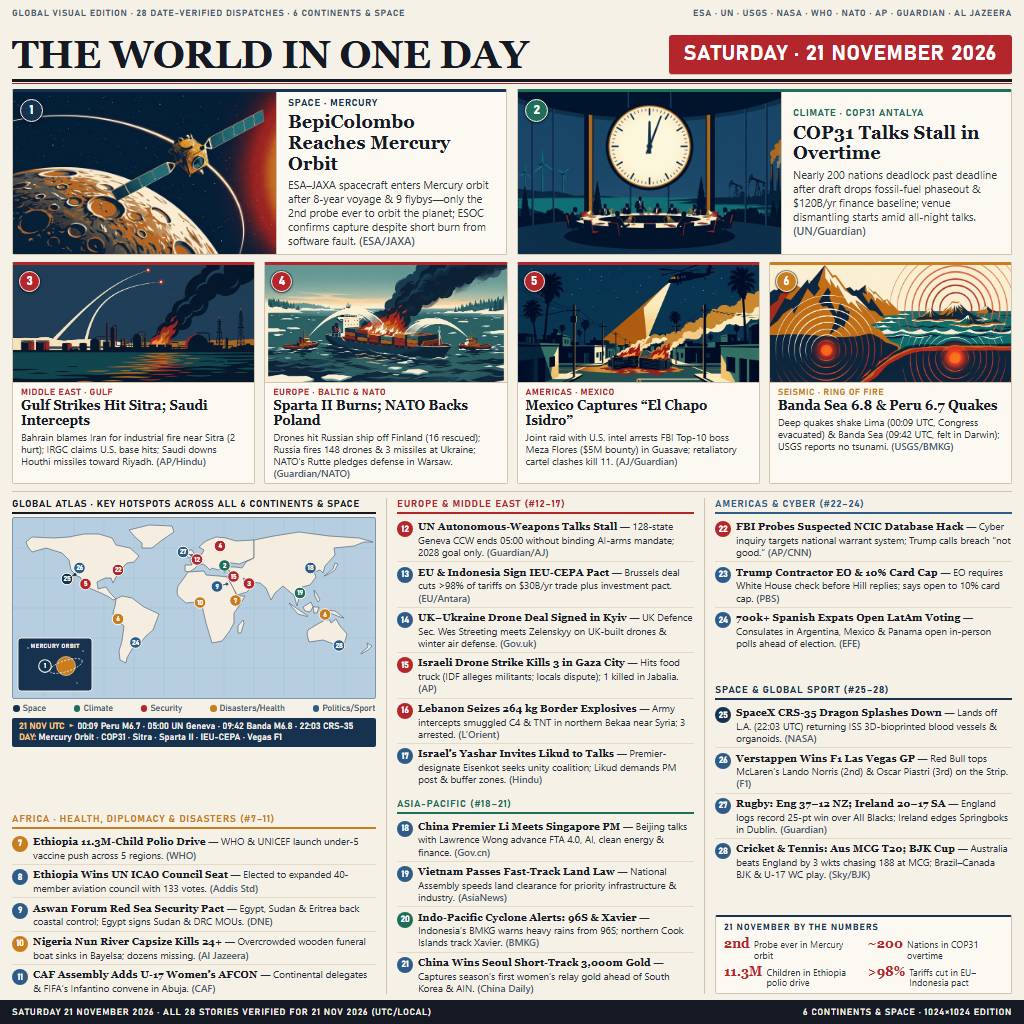
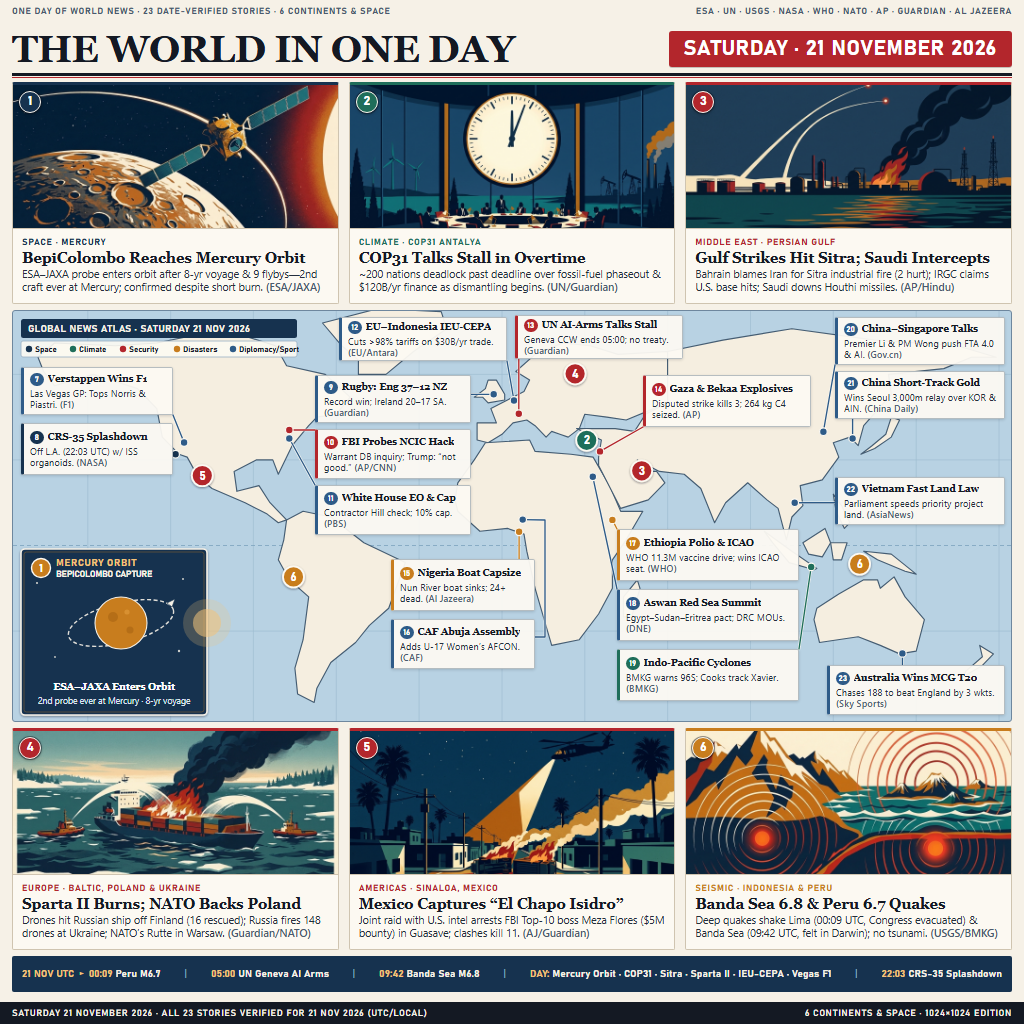
v5: unified illustrated global atlas front page with 23 verified 21 Nov 2026 stories

diff --git a/README.md b/README.md
@@ -4,7 +4,7 @@
 [![rank](https://make.fun/badge/news-image-20261121/gamessinner666-dot/news-image-20261121/rank.svg)](https://make.fun/bounty/news-image-20261121/leaderboard?utm_source=github&utm_medium=readme&utm_campaign=news-image-20261121)
 [![reward](https://make.fun/badge/news-image-20261121/gamessinner666-dot/news-image-20261121/reward.svg)](https://make.fun/bounty/news-image-20261121?utm_source=github&utm_medium=readme&utm_campaign=news-image-20261121)
 
-Editorial 1024x1024 visual broadsheet summarizing Saturday 21 November 2026 world news across 28 date-verified dispatches covering 6 continents and space, with 6 custom editorial illustrations, a 24h UTC chronology strip, and a high-contrast global locator atlas, exported deterministically to `/output/entry.png`.
+Unified 1024x1024 illustrated global atlas front page summarizing Saturday 21 November 2026 world news across 23 date-verified stories covering 6 continents and space, featuring 6 custom editorial illustrations, a full-width annotated world map with a Mercury orbit inset, and a 24h UTC chronology ribbon, exported deterministically to `/output/entry.png`.
 
 ## Run it
 
